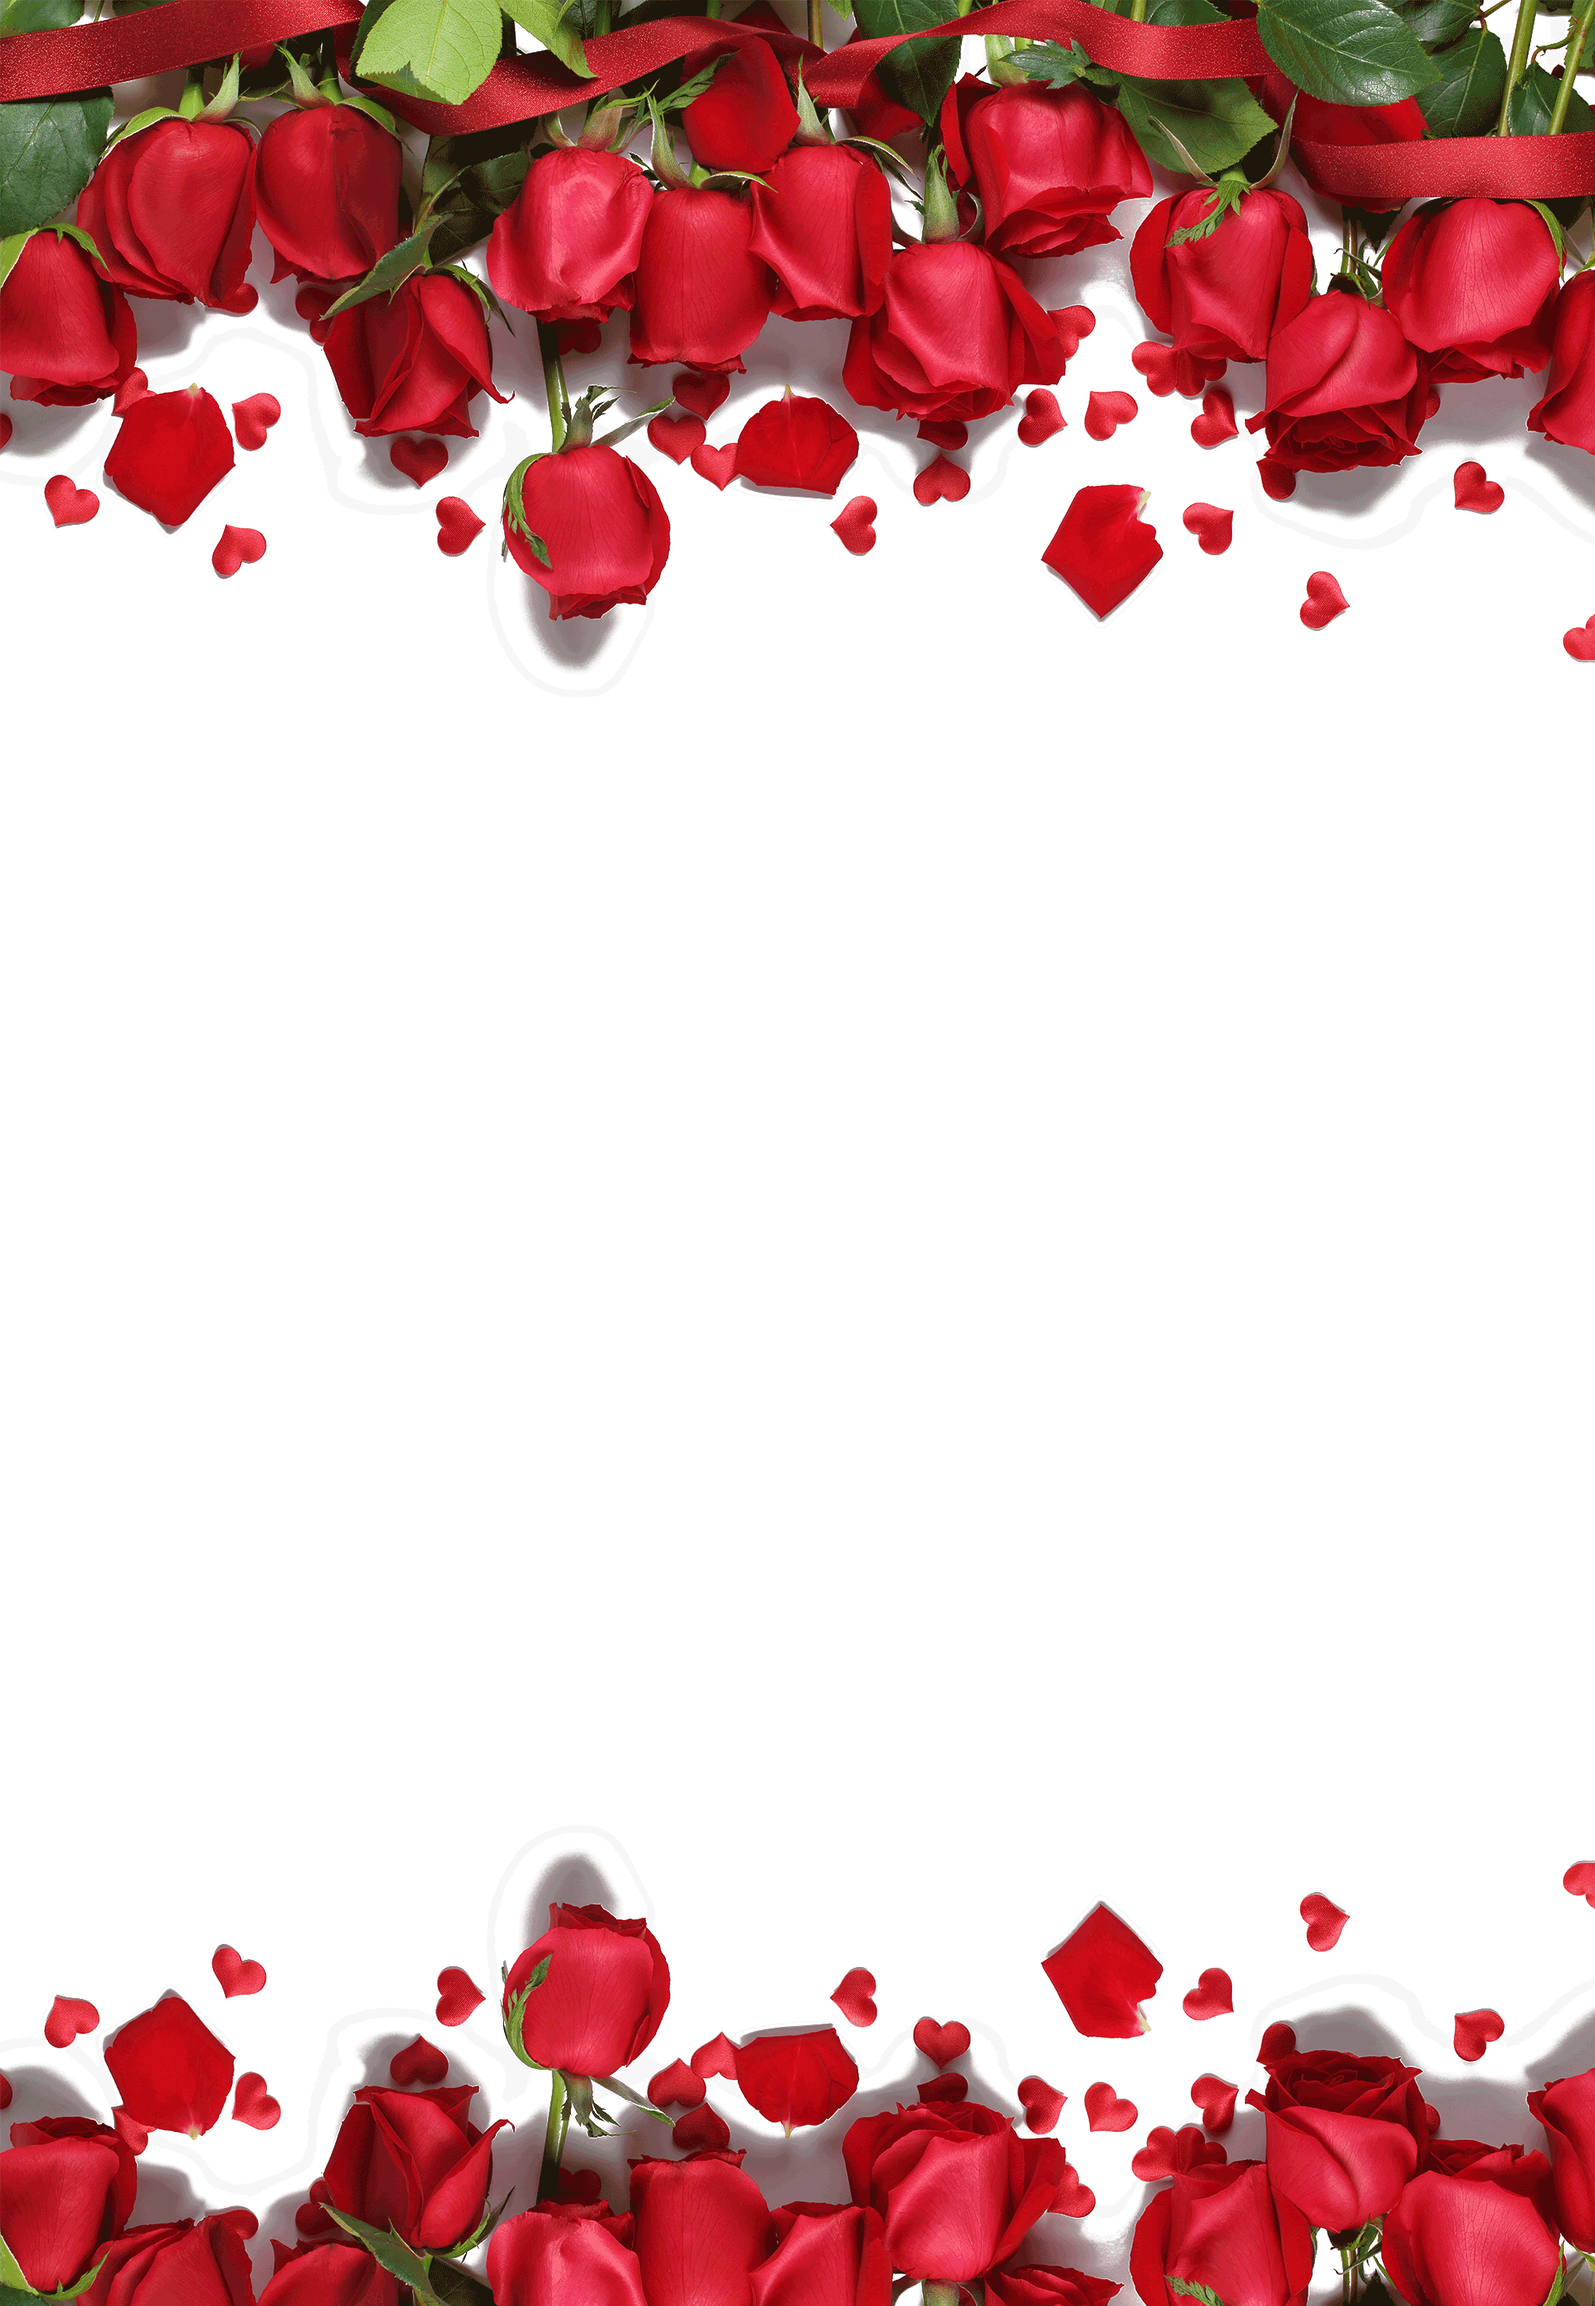
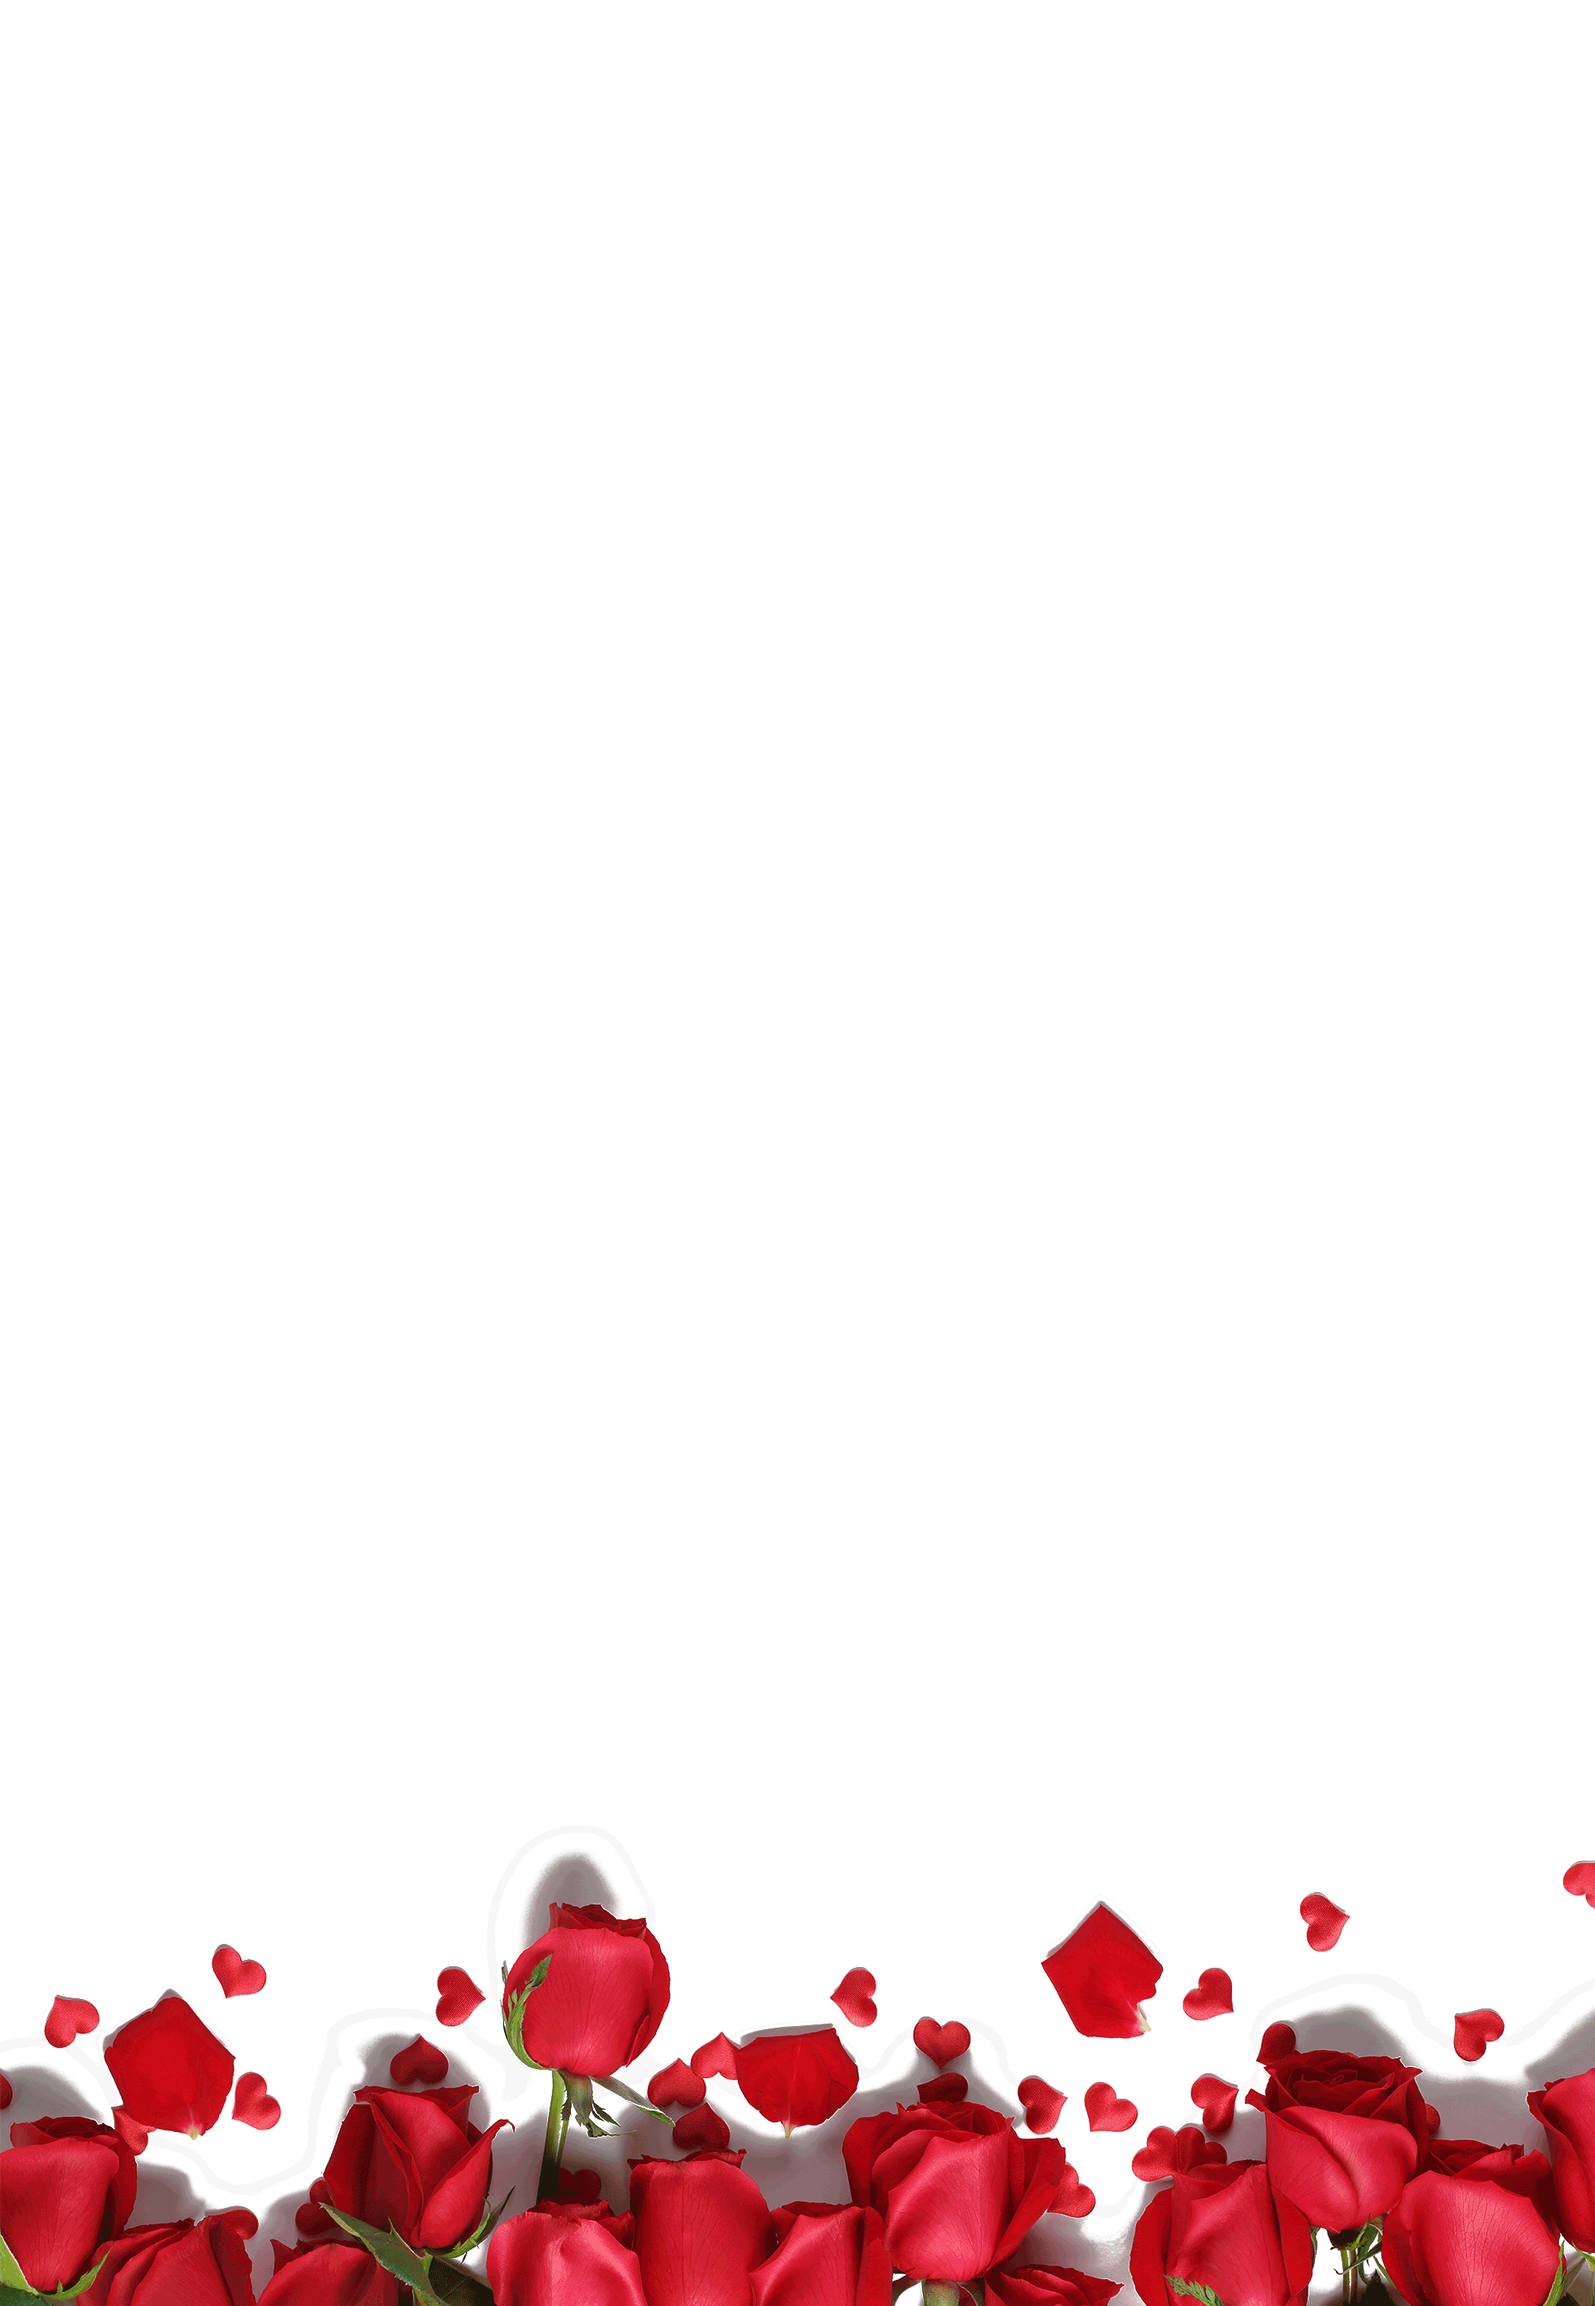
页面美化

Changed region(s): [[0.0, 0.0, 1.0, 0.3113]]

diff --git a/src/pages/index.vue b/src/pages/index.vue
@@ -2,7 +2,7 @@
   @import "./src/less/config.less";
   page {
     background-image: url("https://raw.githubusercontent.com/SixOld/djtu-MyCampus-Six/master/img/background1.png");
-    background-position: 50% calc(~"100% + 380rpx");
+    background-position: 50% calc(~"100% rpx");
     background-repeat: no-repeat;
     background-size: 100%;
     background-attachment: fixed;
